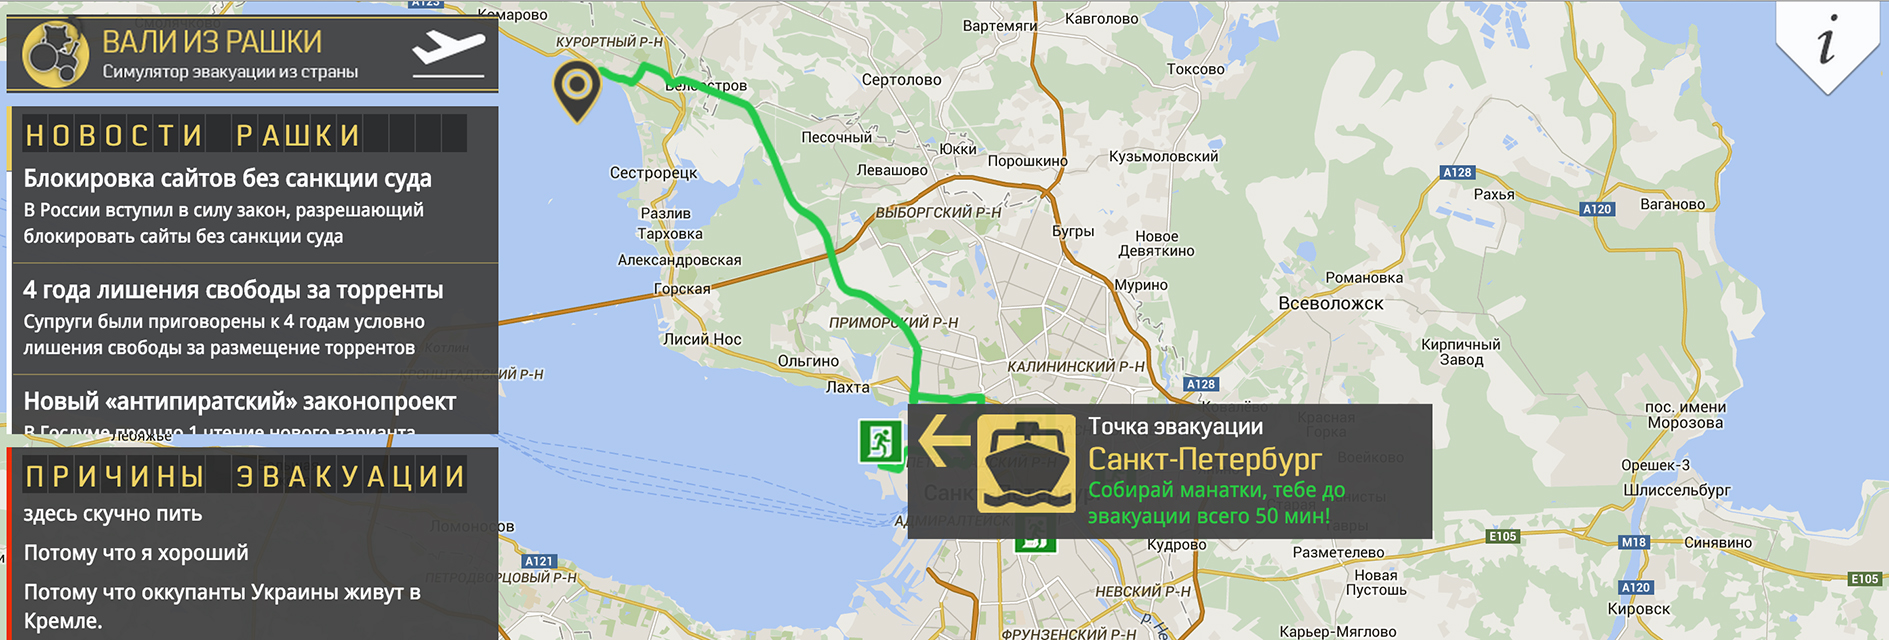
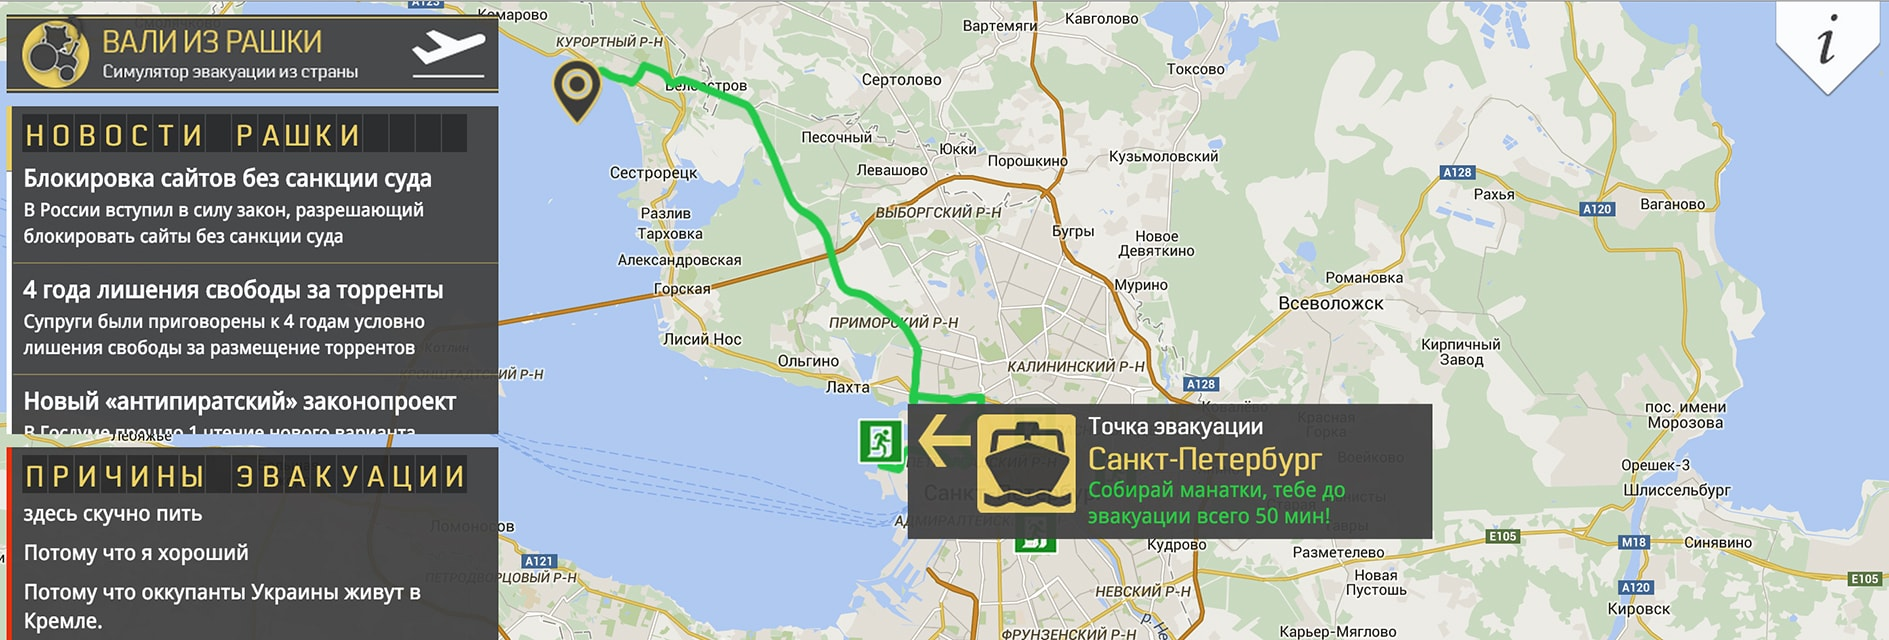
Content update
- Adds PerfectS Bot, Elon Goes To Mars! to the experiments list. Removes
AmIEpilleptic from it.
- Updates texts
- Optimizes existing images.

diff --git a/server/db/seed.es6.js b/server/db/seed.es6.js
@@ -13,12 +13,10 @@ function seedRecords() {
           },
           translations: {
             en: {
-              description: 'Website about opinion analysis, which helps people share their views on anything' +
-              ' and get rich statistics.'
+              description: 'A website about opinion analysis, which helps people to share their views on everything and get powerful statistics.'
             },
             'ru-RU': {
-              description: 'Сайт анализа мнений. Позволяет людям узнать, о чем думает общество' +
-              ' в виде простой и мощной статистики.'
+              description: 'Сайт анализа мнений. Позволяет людям узнать, о чем думает общество в виде доступной и мощной статистики.'
             }
           }
         },
@@ -32,30 +30,45 @@ function seedRecords() {
           translations: {
             en: {
               title: 'Vali iz rashki',
-              description: 'Satyric website about escaping from Russia as fast as possible.'
+              description: 'A satyric website about escaping from Russia as fast as possible.'
             },
             'ru-RU': {
               title: 'Вали из Рашки',
-              description: 'Сатиристический сайт о спасении из Рашки.'
+              description: 'Сатиристический сайт об эвакуации из Рашки.'
             }
           }
         },
         {
           data: {
-            title: 'Am I epileptic?',
-            name: 'epileptic',
-            url: 'http://amiepilleptic.com',
+            title: 'Elon goes to Mars!',
+            name: 'elon',
+            url: 'https://github.com/cbrwizard/game-off-2016',
             createdAt: new Date().valueOf(),
-            releaseDate: new Date('2014-09-01').valueOf()
+            releaseDate: new Date('2016-12-01').valueOf()
           },
           translations: {
             en: {
-              description: 'Medical startup which defines if you have this critical medical condition.' +
-              ' WARNING: not suitable for actual epileptics.'
+              description: "A game about Elon trying to colonize Mars! It's made with Unity and can be played in a browser. It was made in 1 month in free time as a part of Github Game-off 2016 competition."
             },
             'ru-RU': {
-              description: 'Медицинский стартап, определяющий ваше состояние' +
-              ' ВНИМАНИЕ: нельзя использовать на настоящих больных.'
+              description: 'Игра про то, как Илон колонизирует Марс! Она сделана с помощью Unity, в неё можно играть в браузере. Она была сделана за 1 месяц в свободное время как участник конкурса Github Game-off 2016.'
+            }
+          }
+        },
+        {
+          data: {
+            title: 'PerfectS Bot LEGO mindstorms',
+            name: 'perfects_bot',
+            url: 'https://www.youtube.com/watch?v=me5-JXdOl2I',
+            createdAt: new Date().valueOf(),
+            releaseDate: new Date('2015-07-28').valueOf()
+          },
+          translations: {
+            en: {
+              description: 'A robot made from LEGO which helps me to stay fit while coding. Every 30 minutes it finds me and tells me to do pushups! A Hipchat bot version is also available.'
+            },
+            'ru-RU': {
+              description: 'Робот, сделанный из Лего, помогающий мне не зажиреть во время работы. Каждые полчаса он находит меня и заставляет делать отжимания! Также есть версия в виде Hipchat бота.'
             }
           }
         }

diff --git a/README.md b/README.md
@@ -43,7 +43,17 @@ $ meteor --test
 * /server - Server specific code.
   * /db - Helper db-related functions.
   * /publications - Meteor publications, which allow data to be used in client/presenters from lib/stores.
-  
+
+## Why
+
+Why Meteor? Why Angular?
+
+Have you ever made a technology choice which you later regretted? Well, I did a year ago. Now I understand that using Meteor and Angular for a static website was a really bad idea. I don't want to rewrite it now because rewriting is a waste of time. Well, you've got to learn something somehow!
+
+## TODO
+* Rewrite in normal Node.js and maybe React
+* Improve fonts
+
 ##Thank you
 
-Suggestions are welcome! I hope that somebody finds this code useful. 
+Suggestions are welcome! I hope that somebody finds this code useful.
